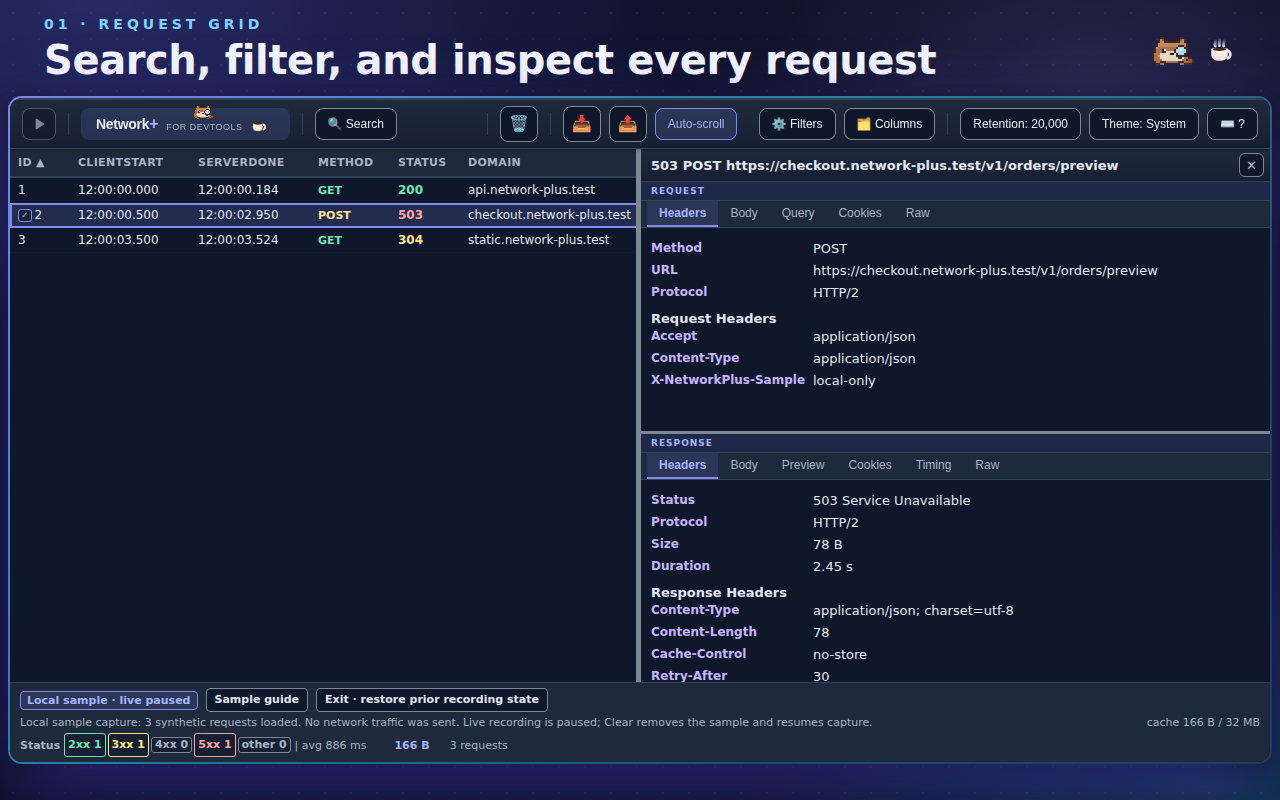
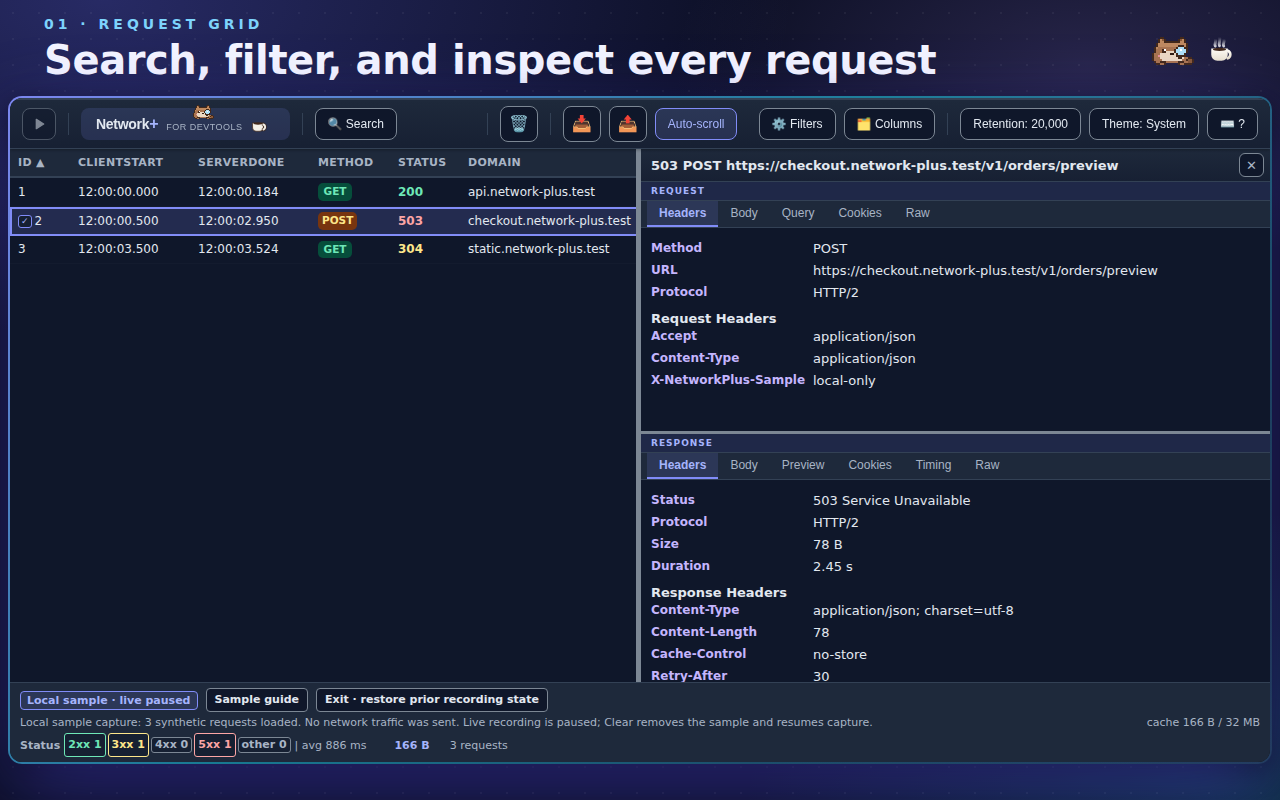
docs: store descriptions rebuilt around real differentiators; listing media re-captured
Both store-listing descriptions now lead with safe sharing, charset
decoding, and request diffing, and cover the pop-out mirror tab,
navigation persistence, opt-in WebSocket capture, Operation column,
Markdown copies, and export scopes (Edge 3208 -> 4682 chars, Chrome
3378 -> 4852). The four store screenshots and the README tour GIF are
re-captured from the current panel so method badges and the export
scope choice are visible; inventory reviewedOn and the pinned
ASSET_REVIEW_DATE move to 2026-08-22 together.

Claude-Session: https://claude.ai/code/session_0124M1SVHRgJnNrGMbz4rPpK

Changed region(s): [[0.0, 0.2188, 0.5, 0.3438]]

diff --git a/scripts/check-store-readiness.js b/scripts/check-store-readiness.js
@@ -11,7 +11,7 @@ const ASSET_DIRECTORY = 'docs/store-assets';
 // The synthetic store assets and the privacy notice are reviewed independently.
 // Keep the dates separate so a privacy-text change does not imply the PNG
 // inventory was re-reviewed on the same day.
-const ASSET_REVIEW_DATE = '2026-08-21';
+const ASSET_REVIEW_DATE = '2026-08-22';
 const PRIVACY_REVIEW_DATE = '2026-08-18';
 const MIN_DESCRIPTION_CHARACTERS = 250;
 const MAX_DESCRIPTION_CHARACTERS = 10000;

diff --git a/docs/chrome-web-store-submission.md b/docs/chrome-web-store-submission.md
@@ -49,15 +49,17 @@ These are external account, payment, identity, and agreement actions. They are i
 ### Detailed description
 
 <!-- chrome-store-description:start -->
-Network+ for DevTools adds a dedicated network-analysis panel to Google Chrome DevTools. It is designed for web developers, QA engineers, and support engineers who need to inspect HTTP evidence without leaving the DevTools workflow.
+Network+ for DevTools adds a dedicated network-analysis panel to Google Chrome DevTools. It is designed for web developers, QA engineers, and support engineers who need to inspect HTTP evidence and share it safely without leaving the DevTools workflow. Sanitized output is the default for every copy and export action, non-UTF-8 responses are decoded with the correct character set, and any two captured requests can be compared side by side.
 
-The request grid captures traffic reported by the Chrome DevTools network API and presents method, status, domain, path, type, duration, size, initiator, URL, and optional waterfall information. Users can sort and resize columns, choose visible columns, apply per-column filters, save the column-and-filter setup as a view preset, and run a multi-keyword search across URLs, headers, request bodies, and response bodies with match-case, whole-word, and regular-expression options, optionally narrowing the grid to matching rows only. Selecting a request opens request and response inspectors for headers, bodies, query parameters, cookies, raw data, timing phases, and supported previews. Two selected requests can be compared side by side.
+The request grid captures traffic reported by the Chrome DevTools network API and presents method, status, domain, path, type, duration, size, initiator, URL, and optional waterfall information, with color-coded method badges and an optional Operation column that surfaces GraphQL operation names and JSON-RPC methods detected in request bodies. Users can sort and resize columns, choose visible columns, apply per-column filters, save the column-and-filter setup as a view preset, and run a multi-keyword search across URLs, headers, request bodies, and response bodies with match-case, whole-word, and regular-expression options, optionally narrowing the grid to matching rows only. Captured requests are kept across page navigations, so a redirect or reload does not wipe the evidence being examined; rows whose response bodies could not be retrieved in time are labeled rather than silently dropped.
 
-The Body and Raw inspector views carry their own keyword search with hit counting, next/previous navigation, and an expand-all action that reveals matches hidden inside collapsed JSON nodes or truncated previews. Response bodies are decoded with the charset declared by the Content-Type header, falling back to a scan of the HTML meta charset, so non-UTF-8 payloads read correctly in both live capture and imported HAR or SAZ files. Scope and match options persist between sessions; search keywords themselves are never stored.
+Selecting a request opens request and response inspectors for headers, bodies, query parameters, cookies, raw data, timing phases, and supported previews. Two selected requests can be compared side by side to isolate what changed between a working call and a failing one. The Body and Raw inspector views carry their own keyword search with hit counting, next/previous navigation, and an expand-all action that reveals matches hidden inside collapsed JSON nodes or truncated previews. Response bodies are decoded with the charset declared by the Content-Type header, falling back to a scan of the HTML meta charset, so non-UTF-8 payloads read correctly in both live capture and imported HAR or SAZ files. Scope and match options persist between sessions; search keywords themselves are never stored.
+
+The panel is not confined to the DevTools window. A pop-out action opens Network+ in a full browser tab that mirrors the live capture session, keeping rows, details, and the paused state in sync, which helps on small screens or a second monitor. An opt-in WebSocket capture mode records the messages the inspected page sends and receives on sockets opened while the mode is on and lists them as directional frames in the inspectors; capture is observation only and never alters traffic. HAR files that include WebSocket messages recorded by Chromium-based DevTools are restored the same way on import.
 
 Network+ applies bounded local retention. The default request limit is 20,000, configurable from 100 to 100,000; an explicitly confirmed unlimited request mode is also available. Response bodies remain subject to a 1 MiB per-body limit and a 32 MiB shared cache limit. The status bar reports retention and body-cache conditions so omitted or evicted content is not presented as complete evidence. Clear removes the current working set and offers a bounded 10-second Undo action while retained data remains available.
 
-Clipboard copy and HAR export are user-initiated. Sanitized output is the default and redacts or omits sensitive fields according to the documented policy. Full output requires a warning and one-time confirmation for that action, and Network+ does not save a full-output preference. Users should still review any exported or copied data before sharing it.
+Clipboard copy and HAR export are user-initiated. Sanitized output is the default and redacts or omits sensitive fields according to the documented policy: a request can be copied as a sanitized one-line summary, a Markdown report ready for a bug tracker or chat, or a cURL, fetch, or PowerShell command, and exports can cover the rows currently displayed or only the selected rows. Full output requires a warning and one-time confirmation for that action, and Network+ does not save a full-output preference. Users should still review any exported or copied data before sharing it.
 
 An empty panel offers three deterministic, local-only sample requests under reserved `.test` domains. The sample sends no network traffic, pauses live capture to avoid mixing evidence, and includes a prompt-first guide for identifying a 503 request, its dominant Wait (TTFB) phase, a Retry-After header, and the limits of browser-observed timing. No account or test credentials are required.
 

diff --git a/docs/edge-addons-submission.md b/docs/edge-addons-submission.md
@@ -55,15 +55,17 @@ These are external identity, agreement, and account actions. They are intentiona
 ### Detailed description
 
 <!-- store-description:start -->
-Network+ for DevTools adds a dedicated network-analysis panel to Microsoft Edge DevTools. It is designed for web developers, QA engineers, and support engineers who need to inspect HTTP evidence without leaving the DevTools workflow.
+Network+ for DevTools adds a dedicated network-analysis panel to Microsoft Edge DevTools. It is designed for web developers, QA engineers, and support engineers who need to inspect HTTP evidence and share it safely without leaving the DevTools workflow. Sanitized output is the default for every copy and export action, non-UTF-8 responses are decoded with the correct character set, and any two captured requests can be compared side by side.
 
-The request grid captures traffic reported by the Edge DevTools network API and presents method, status, domain, path, type, duration, size, initiator, URL, and optional waterfall information. Users can sort and resize columns, choose visible columns, apply per-column filters, save the column-and-filter setup as a view preset, and run a multi-keyword search across URLs, headers, request bodies, and response bodies with match-case, whole-word, and regular-expression options, optionally narrowing the grid to matching rows only. Selecting a request opens request and response inspectors for headers, bodies, query parameters, cookies, raw data, timing phases, and supported previews. Two selected requests can be compared side by side.
+The request grid captures traffic reported by the Edge DevTools network API and presents method, status, domain, path, type, duration, size, initiator, URL, and optional waterfall information, with color-coded method badges and an optional Operation column that surfaces GraphQL operation names and JSON-RPC methods detected in request bodies. Users can sort and resize columns, choose visible columns, apply per-column filters, save the column-and-filter setup as a view preset, and run a multi-keyword search across URLs, headers, request bodies, and response bodies with match-case, whole-word, and regular-expression options, optionally narrowing the grid to matching rows only. Captured requests are kept across page navigations, so a redirect or reload does not wipe the evidence being examined; rows whose response bodies could not be retrieved in time are labeled rather than silently dropped.
 
-The Body and Raw inspector views carry their own keyword search with hit counting, next/previous navigation, and an expand-all action that reveals matches hidden inside collapsed JSON nodes or truncated previews. Response bodies are decoded with the charset declared by the Content-Type header, falling back to a scan of the HTML meta charset, so non-UTF-8 payloads read correctly in both live capture and imported HAR or SAZ files. Scope and match options persist between sessions; search keywords themselves are never stored.
+Selecting a request opens request and response inspectors for headers, bodies, query parameters, cookies, raw data, timing phases, and supported previews. Two selected requests can be compared side by side to isolate what changed between a working call and a failing one. The Body and Raw inspector views carry their own keyword search with hit counting, next/previous navigation, and an expand-all action that reveals matches hidden inside collapsed JSON nodes or truncated previews. Response bodies are decoded with the charset declared by the Content-Type header, falling back to a scan of the HTML meta charset, so non-UTF-8 payloads read correctly in both live capture and imported HAR or SAZ files. Scope and match options persist between sessions; search keywords themselves are never stored.
+
+The panel is not confined to the DevTools window. A pop-out action opens Network+ in a full browser tab that mirrors the live capture session, keeping rows, details, and the paused state in sync, which helps on small screens or a second monitor. An opt-in WebSocket capture mode records the messages the inspected page sends and receives on sockets opened while the mode is on and lists them as directional frames in the inspectors; capture is observation only and never alters traffic. HAR files that include WebSocket messages recorded by Chromium-based DevTools are restored the same way on import.
 
 Network+ applies bounded local retention. The default request limit is 20,000, configurable from 100 to 100,000; an explicitly confirmed unlimited request mode is also available. Response bodies remain subject to a 1 MiB per-body limit and a 32 MiB shared cache limit. The status bar reports retention and body-cache conditions so omitted or evicted content is not presented as complete evidence. Clear removes the current working set and offers a bounded 10-second Undo action while retained data remains available.
 
-Clipboard copy and HAR export are user-initiated. Sanitized output is the default and redacts or omits sensitive fields according to the documented policy. Full output requires a warning and one-time confirmation for that action, and Network+ does not save a full-output preference. Users should still review any exported or copied data before sharing it.
+Clipboard copy and HAR export are user-initiated. Sanitized output is the default and redacts or omits sensitive fields according to the documented policy: a request can be copied as a sanitized one-line summary, a Markdown report ready for a bug tracker or chat, or a cURL, fetch, or PowerShell command, and exports can cover the rows currently displayed or only the selected rows. Full output requires a warning and one-time confirmation for that action, and Network+ does not save a full-output preference. Users should still review any exported or copied data before sharing it.
 
 An empty panel offers three deterministic, local-only sample requests under reserved `.test` domains. The sample sends no network traffic, pauses live capture to avoid mixing evidence, and includes a prompt-first guide for identifying a 503 request, its dominant Wait (TTFB) phase, a Retry-After header, and the limits of browser-observed timing. No account or test credentials are required.
 

diff --git a/docs/CHANGELOG.md b/docs/CHANGELOG.md
@@ -12,6 +12,8 @@ All notable changes to Network+ for DevTools. Versions follow [Semantic Versioni
 - Documented how to open the panel as a browser tab: a step-by-step "Open Network+ in its own browser tab" section in both READMEs, pointing at the 🪟 toolbar button between the theme toggle and the shortcuts button.
 - Added a sanitized Markdown copy for bug reports: the row menu's "Copy sanitized Markdown" produces an issue-ready block (method, redacted URL, status, operation, timing), a multi-row selection offers one compact Markdown table, and the format also joins the full-output dialog behind its usual per-action confirmation.
 - HAR imports now thread Chrome's `_webSocketMessages` into the same request/response Body panes that live WebSocket capture uses, sorted by time, with binary frames summarized by size and a visible notice when a conversation exceeds the 1,000-message import limit.
+- Rewrote both store-listing descriptions around what actually distinguishes the panel — safe sharing by default (sanitized copies including the new Markdown formats, displayed-or-selected export scope), correct charset decoding, side-by-side request diffing, and this cycle's pop-out mirror tab, navigation persistence, opt-in WebSocket capture, and Operation column — while carrying the reviewed retention, sample-guide, and accessibility paragraphs over intact. Edge grew from 3,208 to 4,682 characters and Chrome from 3,378 to 4,852, both inside the validated limits.
+- Re-captured the four store screenshots and the README tour GIF against the current panel, so the listing media now shows the color-coded method badges and the export dialog's displayed-or-selected scope choice; `docs/store-assets/inventory.json` and the pinned asset-review date moved to 2026-08-22 together.
 - Extended the manual test checklist with three sections for the features this cycle added — pop-out mirror tab, navigation persistence, and export scope / operation labels / WebSocket capture — since full DevTools-context behavior is exactly what automation here cannot reach.
 - Added an Operation column (off by default) that reads GraphQL `operationName` — falling back to the parsed query / mutation / subscription name, batches included — and JSON-RPC `method` out of POST bodies, so API rows can be scanned, sorted, and filtered by what they do; the label also appears in the request Headers pane and travels over the mirror port.
 - Added opt-in WebSocket capture with no extra permissions: a status-bar toggle wraps the inspected page's `WebSocket` constructor through the DevTools eval API, records each connection as a WS-badged row, threads sent frames into the request Body pane and received frames plus lifecycle events into the response Body pane (searchable and export-sanitized like any body), reinstalls itself after navigations, and states its limits in the toggle itself — only sockets created while capture is on are seen, and traffic is never altered.
